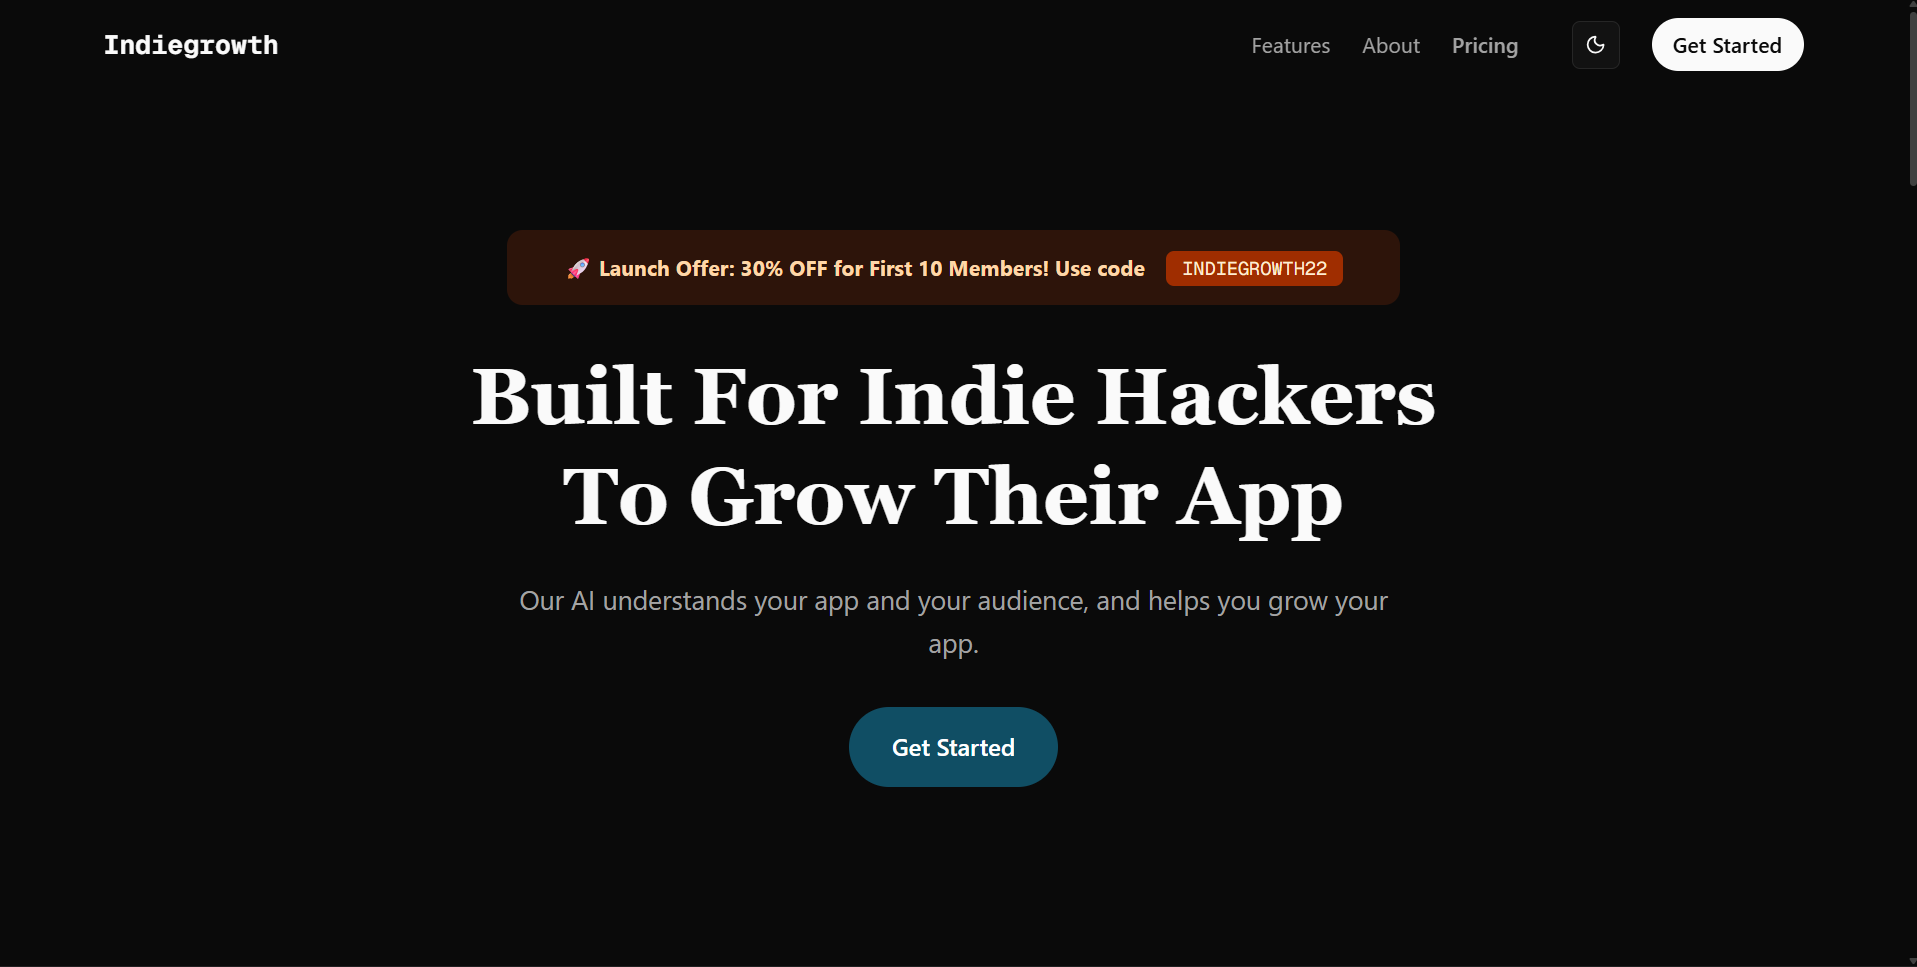
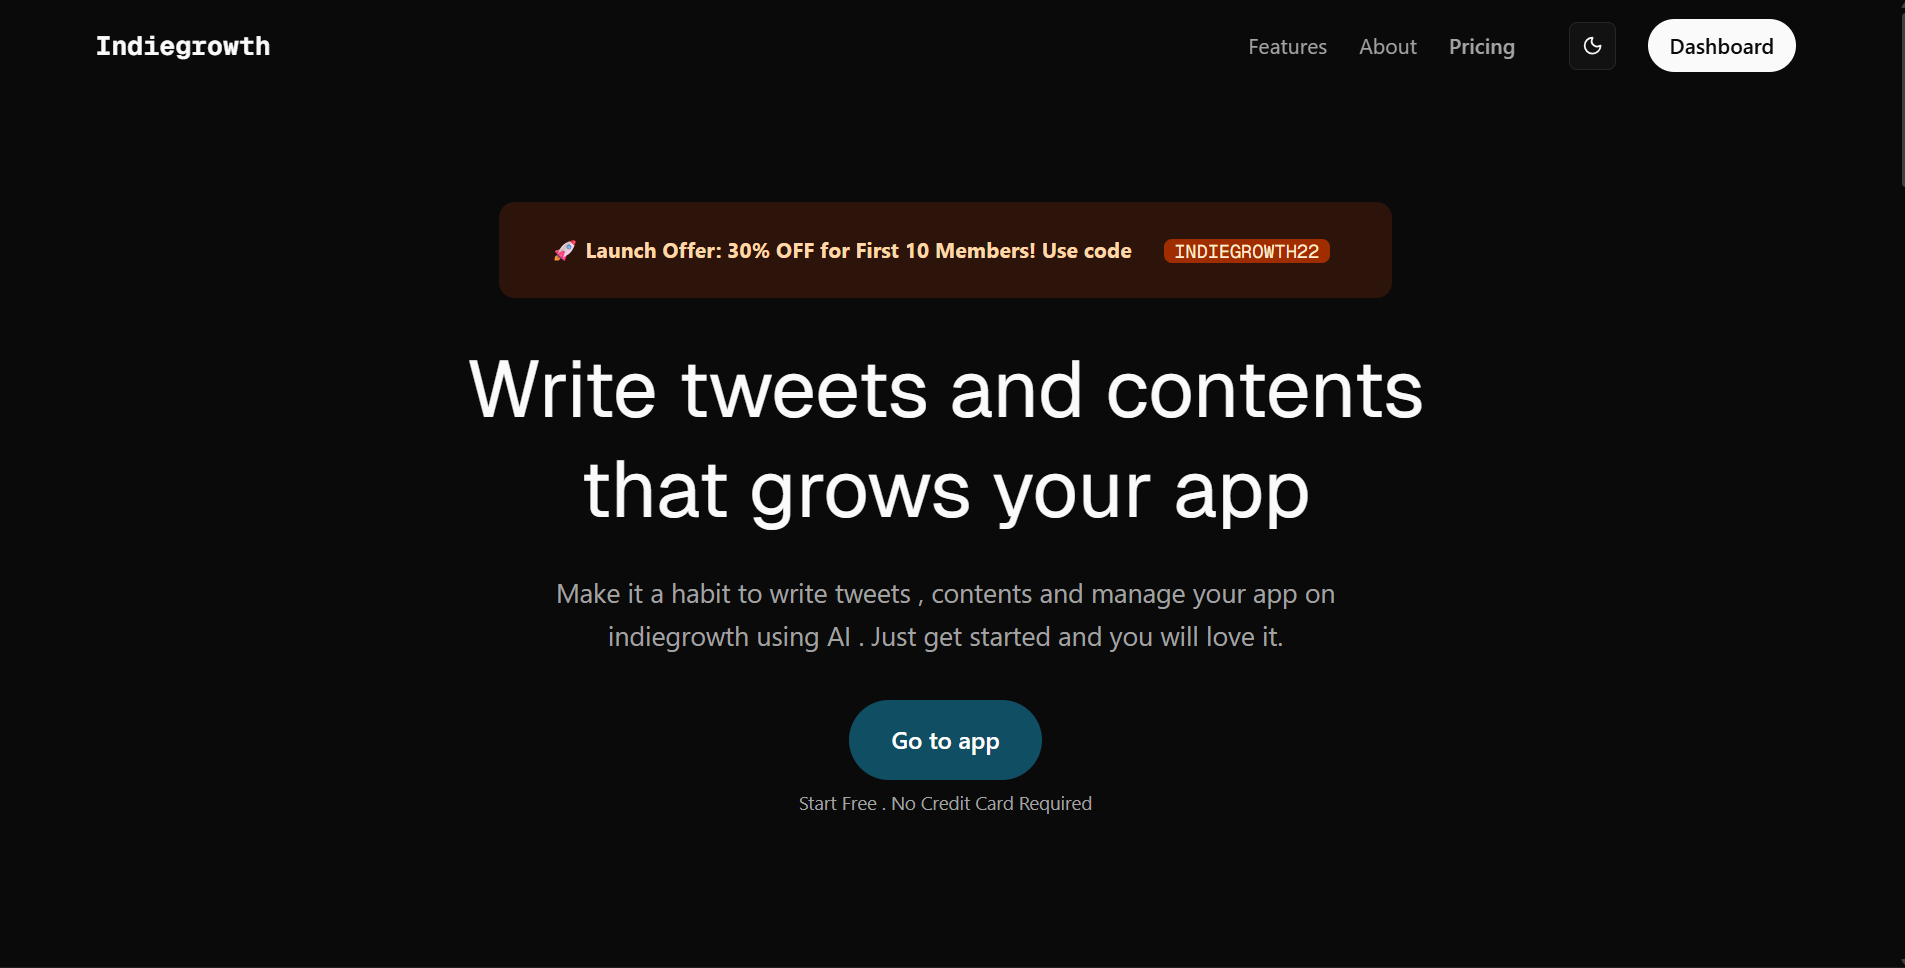
Hero

diff --git a/src/app/page.tsx b/src/app/page.tsx
@@ -100,12 +100,11 @@ export default function Home() {
               </code>
             </div>
           </div>
-          <h1 className="text-4xl sm:text-5xl md:text-6xl font-serif font-bold text-foreground leading-tight mb-6 max-w-3xl mx-auto">
+          <h1 className="text-4xl  sm:text-5xl md:text-6xl  font-sans text-foreground leading-tight mb-6 max-w-3xl mx-auto">
             Write tweets and contents that grows your app <br />
-            <span className="text-orange-500"></span>
           </h1>
           <p className="text-base sm:text-xl text-muted-foreground mb-8 leading-relaxed max-w-2xl mx-auto">
-            Make it a habit to write tweets , contents and manage your app on indiegrowth using AI
+            Make it a habit to write tweets , contents and manage your app on indiegrowth using AI . Just get started and you will love it. 
           </p>
           <div className="flex justify-center space-x-4">
             <a href={session ? "/dashboard" : "/login"} className="bg-cyan-900 text-white px-6 py-3 sm:px-8 sm:py-4 rounded-full font-semibold text-base sm:text-lg flex items-center">
